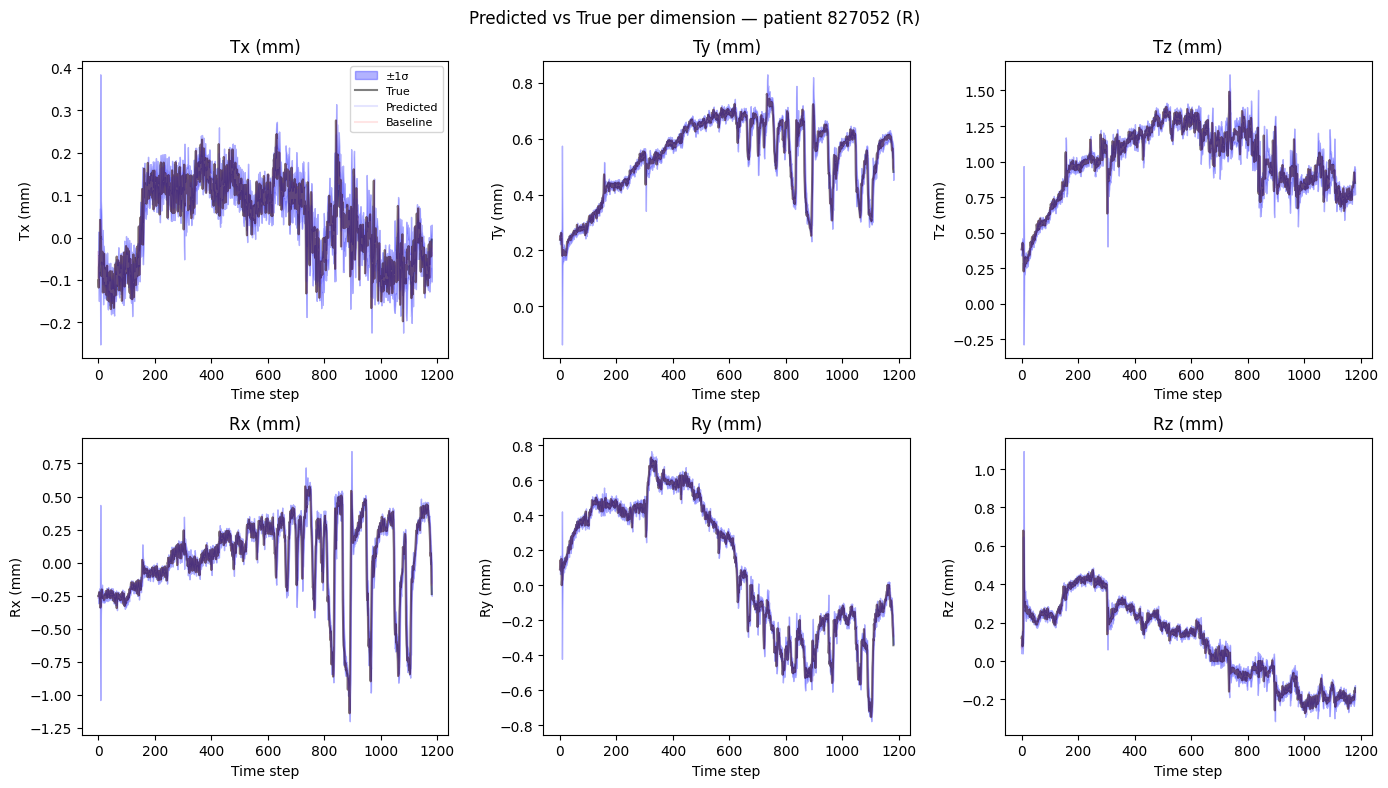
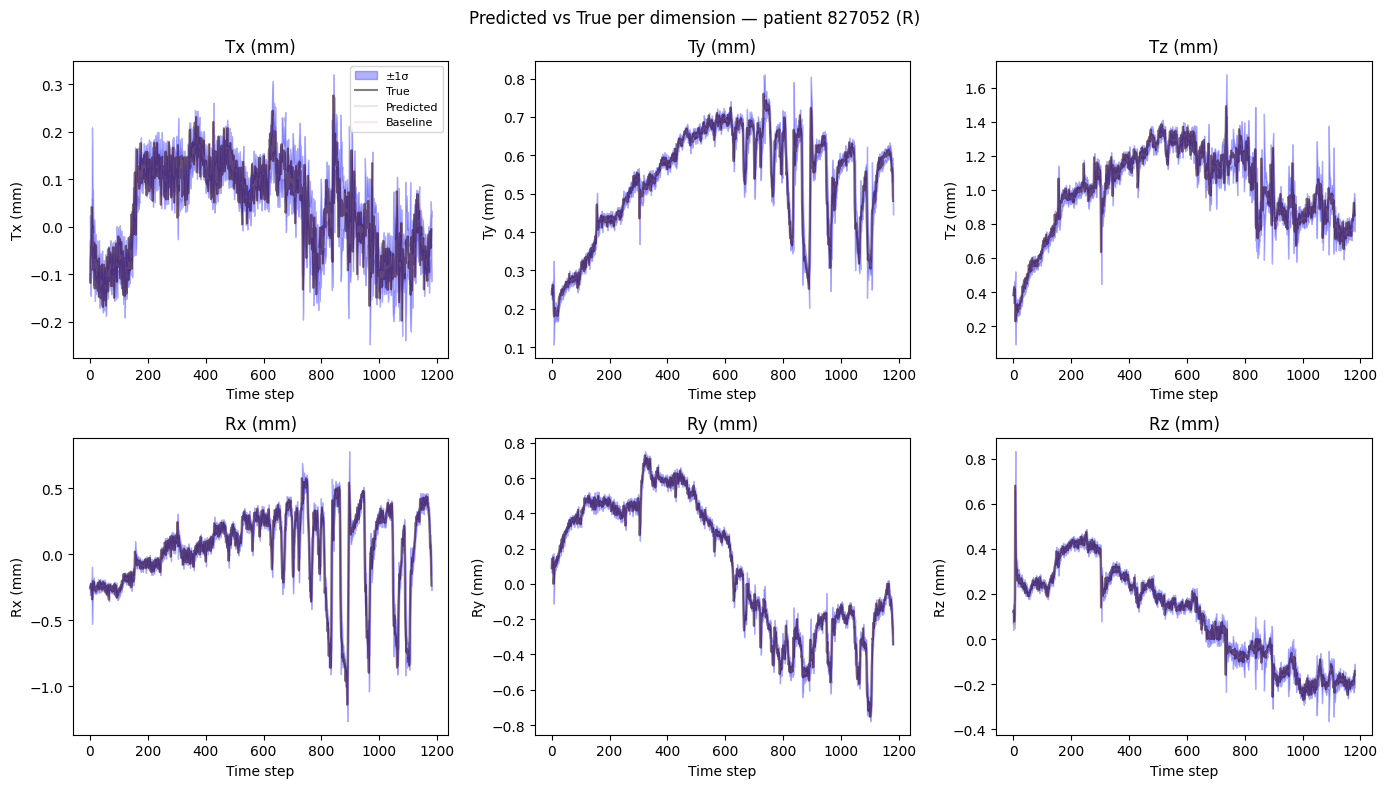
Rewrite README with full multi-architecture results
Cover the benchmark (9 archs x 4 seq lengths), Pareto frontiers,
sequence-length scan, distillation, routing, and ablations
(feature/data augmentation, jerk penalty), plus updated GRU
reproduction, beta scan, and fine-tuning figures. Add the
supporting figures to assets/.

diff --git a/README.md b/README.md
@@ -4,7 +4,9 @@
 
 Predict the **next** head-motion frame from a stream of past frames, one step ahead, so a scanner (or a prospective-motion-correction system) can react *before* the head has finished moving.
 
-The model is a small probabilistic **GRU** trained on the [HCP](https://www.humanconnectome.org/) head-motion time series (6 degrees of freedom: 3 translations + 3 rotations). For every frame it outputs a **Gaussian per dimension** — a mean *and* a variance — so it reports not just where the head will be, but how sure it is. It is trained to beat the obvious "the head won't move" baseline on **framewise displacement (FD)** while keeping its uncertainty **calibrated**.
+Models are trained on the [HCP](https://www.humanconnectome.org/) head-motion time series (6 degrees of freedom: 3 translations + 3 rotations, sampled every 720 ms). For every frame a model outputs a **Gaussian per dimension** — a mean *and* a variance — so it reports not just where the head will be, but how sure it is. The objective is to beat the obvious "the head won't move" baseline on **framewise displacement (FD)** while keeping the uncertainty **calibrated**, at a latency low enough for real-time deployment.
+
+This project starts from the original RECENTRE GRU ([Argiento et al. 2025](https://arxiv.org/abs/2505.09963)), reproduces it inside a clean config-driven pipeline, and then benchmarks **9 architectures × 4 sequence lengths** — TCN, Transformer, PatchTST, NLinear, DLinear, TSMixer, Conformer, Mamba, and the GRU — on accuracy, size, latency, noise robustness, and calibration.
 
 <p align="center">
   <img src="assets/patient_timeseries.png" width="100%"><br>
@@ -15,7 +17,7 @@ The model is a small probabilistic **GRU** trained on the [HCP](https://www.huma
 
 ## The idea in one minute
 
-**The baseline is hard to beat.** Head motion is slow and smooth, so "next frame ≈ current frame" (the *previous-frame baseline*) is already a very good predictor. Any useful model has to do measurably better than simply repeating the last frame.
+**The baseline is hard to beat.** Head motion is slow and smooth, so "next frame ≈ current frame" — the *previous-frame* (lag-1) baseline — is already a very good predictor. Any useful model has to do measurably better than repeating the last frame.
 
 **We measure everything in FD.** Framewise displacement collapses the 6-DOF change between two frames into a single scalar in millimetres — translations summed directly, rotations converted to mm via a 50 mm head radius. The headline metric is **FD-gain**:
 
@@ -23,7 +25,7 @@ The model is a small probabilistic **GRU** trained on the [HCP](https://www.huma
 fd_gain = (FD_baseline − FD_model) / FD_baseline      # >0 means we beat "don't move"
 ```
 
-**The model predicts a residual, not the frame.** The GRU's mean head outputs a *correction* added to the last input frame, which is the right inductive bias when consecutive frames are nearly identical. A second head outputs the variance.
+**Models predict a residual, not the frame.** Every architecture's mean head outputs a *correction* added to the last input frame — the right inductive bias when consecutive frames are nearly identical — plus a second head for the variance. So `forward` returns `(last_frame + Δμ, σ²)`.
 
 **The loss has two terms.** Gaussian negative log-likelihood (which trains both the mean *and* the variance) minus a weight `β` times the FD-gain:
 
@@ -33,48 +35,153 @@ loss = GaussianNLL(μ, σ², target)  −  β · mean(fd_gain)
 
 `β` is the dial between *calibrated uncertainty* (low β) and *aggressive FD reduction* (high β). Early stopping and model selection use validation FD-gain, not the raw loss.
 
+**Inputs are physics-augmented.** Each channel is the raw position plus a stride-2 velocity `x[t]−x[t−2]` and a second-difference acceleration channel, all z-scored with a single per-channel mean/σ computed on the training set only.
+
 ---
 
-## Results
+## Headline result: the architecture benchmark
 
-### It tracks the motion accurately
+We trained 9 architectures at sequence lengths {10, 32, 64, 128} and ranked them by mean FD-gain on held-out patients (R+M+L, disjoint patient splits). The **Conformer wins**, the **Mamba** is second, and the **GRU** is third — but the GRU is by far the cheapest of the leaders to run.
 
-True vs. predicted, per dimension, on held-out patients across all three tasks (Resting / Memory / Language). R² ranges from 0.94 (the hardest translation axis) to ~0.996.
+<p align="center"><img src="assets/benchmark_table.png" width="100%"></p>
 
-<p align="center"><img src="assets/true_vs_predicted.png" width="100%"></p>
+Top of the table (best checkpoint per architecture, sorted by FD-gain):
 
-### It beats the previous-frame baseline — where it matters
+| Architecture | Seq | Params | FLOPs (M) | Latency (ms) | Mean FD | **FD-gain** | %>0 | NLL |
+|--------------|----:|-------:|----------:|-------------:|--------:|------------:|----:|----:|
+| **conformer**   | 128 | 199,436 | 40.4 | 2.88 | 0.1213 | **0.216** | 80.2 | −2.30 |
+| conformer       |  64 | 199,436 | 20.2 | 2.80 | 0.1198 | 0.213 | 80.1 | −2.29 |
+| gru (distilled) | 128 | 174,476 | 39.6 | **0.64** | 0.1236 | 0.205 | 79.3 | −2.29 |
+| **mamba**       | 128 |  95,500 | 22.7 | 6.33 | 0.1245 | 0.202 | 79.3 | −2.27 |
+| mamba           |  64 |  95,500 | 11.4 | 5.05 | 0.1214 | 0.199 | 78.8 | −2.27 |
+| **gru**         | 128 | 174,476 | 39.6 | **0.64** | 0.1265 | 0.196 | 79.4 | −2.24 |
+| transformer     | 128 |  73,228 |  0.30 | 0.96 | 0.1257 | 0.191 | 78.4 | −2.25 |
+| tcn             |  64 |  71,276 | 10.4 | 3.19 | 0.1300 | 0.170 | 78.1 | −2.20 |
+| TSMixer         |  64 |  18,042 |  0.74 | 2.01 | 0.1383 | 0.116 | 73.9 | −2.17 |
+| dlinear         |  32 |   1,782 |  0.00 | 0.92 | 0.1534 | 0.054 | 71.2 | −0.86 |
+| nlinear         |  32 |     396 |  0.00 | 0.45 | 0.1533 | 0.054 | 70.8 | −1.03 |
+| patchTST        | 128 |  23,330 | 19.2 | 1.48 | 0.1553 | 0.040 | 68.4 | −2.06 |
 
-The left panel shows model FD stays *below* the `y = x` baseline line. The right panel is the key story: FD-gain is **negative for tiny motions** (when the head is basically still, you can't beat "don't move" and shouldn't try) and climbs to **~20% gain** once there is real motion to anticipate. This is exactly the regime that matters for motion correction.
+*Full 37-row table (all archs × all seq lengths, plus size, throughput, noise columns) lives in [`results/benchmark/benchmark_table.md`](results/benchmark/benchmark_table.md).*
 
-<p align="center"><img src="assets/fdgain_vs_motion.png" width="100%"></p>
+Two clear lessons:
 
-### Almost every patient improves
+- **Channel mixing matters.** The channel-*independent* models — PatchTST, NLinear, DLinear — sit at the bottom. The 6 DOF are physically coupled, and models that mix across channels (Conformer, Mamba, GRU, TSMixer) exploit that; the ones that treat each channel separately cannot.
+- **Sequence length is the single biggest accuracy lever** — see the scan below.
 
-Per-patient FD-gain, sorted. **92–97%** of held-out patients are improved over baseline, with a handful of near-still patients (red) where the baseline is already optimal.
+### The Pareto frontiers
 
-<p align="center"><img src="assets/per_patient_fdg.png" width="100%"></p>
+Accuracy (FD-gain) against each real-world cost axis — latency, FLOPs, model size — plus FD-gain vs. noise tolerance. The Conformer leads on accuracy, Mamba follows, and the **GRU offers the best accuracy-per-latency trade-off** (its recurrence is ~4–10× faster to evaluate one frame than the attention/SSM models). The noise-tolerance panel is essentially a straight line: there is no specially "noise-robust" architecture, just better models overall that need more injected noise to fall below the clean baseline.
 
-### The uncertainty is calibrated
+<p align="center"><img src="assets/benchmark_pareto.png" width="100%"></p>
 
-Standardized residuals `z = (y − μ) / σ` should be unit Gaussians if σ is honest. Across all 6 DOF and all 3 tasks: mean(z) ≈ 0, std(z) ≈ 1, reduced χ² ≈ 1. The predicted σ means something — it can be used to fall back to the baseline when the model is unsure.
+### Sequence length scan
 
-<p align="center"><img src="assets/sigma_calibration.png" width="100%"></p>
+FD-gain vs. input length for the best three models. Accuracy rises with sequence length, but past **T = 64** it's diminishing returns — and mean FD even slightly *worsens* from T = 64 → 128. For real-time use, T = 64 is the sweet spot.
+
+<p align="center"><img src="assets/fdg_vs_seqlen.png" width="70%"></p>
+
+---
+
+## Distillation: pushing the fast model up
+
+The Conformer is the most accurate but ~4× slower per frame than the GRU. So we **distilled the Conformer into the GRU** — matching both the output distribution (KL between the two predicted Gaussians) and the pre-head latent features (MSE after a learned projection). The distilled GRU (`gru_distilled` in the table above) reaches **FD-gain 0.205 vs. the vanilla GRU's 0.196**, closing most of the gap to Mamba/Conformer *while keeping the GRU's 0.64 ms latency* — the best speed/accuracy point in the study.
+
+<p align="center"><img src="assets/benchmark_pareto_dist.png" width="100%"></p>
+
+---
+
+## Routing over experts (learned ensemble)
+
+Inspired by mixture-of-experts, we froze the best Conformer, Mamba, and GRU (seq 128) plus the previous-frame baseline, and trained a small **router MLP** that reads each expert's per-frame residual and σ and emits softmax blend weights, trained end-to-end to minimize FD directly. This is *stacking*, not a true MoE — the experts are pretrained and frozen. The router trains on validation patients and is evaluated on the held-out test patients (unseen by every expert).
+
+| Policy | FD-gain |
+|--------|--------:|
+| Conformer (single) | 0.2159 |
+| Mamba (single)     | 0.2020 |
+| GRU (single)       | 0.1957 |
+| Fixed mean (⅓ each)   | 0.2196 |
+| **Soft router**    | **0.2238** |
+| Fixed router-mean weights | 0.2221 |
+
+The learned per-frame router does win, but only marginally over a good fixed average. Average router weights: **61% Conformer, 16% Mamba, 15% GRU, 8% baseline** — every expert is blended in, and better models get more weight. Takeaway: most per-frame headroom is irreducible noise, so a single strong model or a fixed average remains the practical choice.
+
+---
+
+## Reproducing the GRU baseline
+
+Before benchmarking, we reproduced the original RECENTRE GRU inside the new pipeline — a single generalist model trained and tested on all three tasks (R+M+L) over disjoint patient splits.
+
+**It tracks the motion accurately.** True vs. predicted, per dimension, on held-out patients. Every DOF reaches R² > 0.94.
+
+<p align="center"><img src="assets/gru_true_vs_predicted.png" width="90%"></p>
+
+**It beats the previous-frame baseline where it matters.** Model FD sits below the lag-1 baseline, and **74.8%** of frames are improved. FD-gain is negative for tiny motions (when the head is basically still you can't beat "don't move," and shouldn't try) and climbs once there is real motion to anticipate — exactly the regime that matters for motion correction.
+
+<p align="center"><img src="assets/gru_fd_distribution.png" width="90%"></p>
+
+**Almost every patient improves.** Per-patient FD-gain, sorted within each task: **>92%** of patients improved in every task, with a handful of near-still patients where the baseline is already optimal.
+
+<p align="center"><img src="assets/gru_per_patient_fdg.png" width="100%"></p>
 
 ### The β trade-off, swept
 
-Sweeping `β` from 0 → 100: NLL and calibration are best at low β, FD-gain peaks around **β ≈ 0.5–1**, and pushing β higher trades calibration away for diminishing FD returns. `β = 0.5` is the default sweet spot.
+The original work fixed β = 0.1 arbitrarily. Sweeping β over orders of magnitude: NLL and calibration are best at low β, FD-gain peaks around **β ≈ 0.5–1**, and pushing β higher trades calibration away for diminishing (and eventually negative) FD returns — an overfitting effect specific to the FD-gain term. **β = 0.5** is the default sweet spot.
 
-<p align="center"><img src="assets/beta_headline.png" width="100%"></p>
+<p align="center">
+  <img src="assets/beta_headline_metrics.png" width="100%"><br>
+  <em>Headline metrics vs. β: NLL, mean FD vs. baseline, FD-gain, and MAE vs. predicted σ.</em>
+</p>
+<p align="center">
+  <img src="assets/beta_calibration.png" width="100%"><br>
+  <em>Calibration vs. β: empirical coverage of the ±1σ / ±2σ intervals against their Gaussian targets — degrades as β grows.</em>
+</p>
 
 ### Per-patient fine-tuning helps further
 
-Starting from the generalist model and fine-tuning a few epochs on each patient's own early frames (with an L2-SP penalty anchoring to the pretrained weights) improves FD-gain for **~80%** of patients.
+Starting from the generalist model and fine-tuning a few epochs on each patient's own early frames (MSE + FD-gain loss, with an L2-SP penalty anchoring to the pretrained weights) lifts the improved-patient rate to **>95%** in every task, with an **80%** per-patient win rate and a mean FD-gain shift of **+0.047**.
 
+<p align="center"><img src="assets/ft_per_patient_fdg.png" width="100%"></p>
 <p align="center">
-  <img src="assets/finetune_fdg_scatter.png" width="48%">
-  <img src="assets/finetune_delta_kde.png" width="48%">
+  <img src="assets/ft_fdg_scatter.png" width="48%">
+  <img src="assets/ft_delta_kde.png" width="48%"><br>
+  <em>Left: per-patient FD-gain before vs. after fine-tuning (points above y=x improved). Right: distribution of the per-patient FD-gain improvement (mean shift +0.047).</em>
 </p>
+
+---
+
+## Ablations
+
+### Feature augmentation — velocity is the win
+
+Appending stride-2 velocity (`x[t]−x[t−2]`, recomputed because the model sees every 2nd frame) and acceleration channels. Velocity gives a large jump; acceleration adds nothing measurable, but we keep both for all models.
+
+| Augmentation | FD_pred | FD-gain | % frames > base |
+|--------------|--------:|--------:|----------------:|
+| None    | 0.134 | 0.145 | 76.5 |
+| Vel     | 0.129 | 0.172 | 78.5 |
+| Vel+acc | 0.129 | 0.171 | 78.1 |
+
+### Data augmentation — negation helps, time-reversal hurts
+
+Translations and rotations are physically coupled, so there's little room for independent transforms. Of the two physically plausible ones, **negation (sign flip)** improves the clean test set while **time-reversal degrades it**. All models are trained with negation augmentation.
+
+| Augmentation | FD_pred | FD-gain | % frames > base |
+|--------------|--------:|--------:|----------------:|
+| None          | 0.143 | 0.097 | 73.0 |
+| Time-reversal | 0.146 | 0.078 | 70.9 |
+| **Negation**  | 0.141 | **0.114** | 75.2 |
+| Both          | 0.145 | 0.085 | 71.9 |
+
+### Jerk penalty — no measurable edge
+
+A kinematic prior: penalize jerk `J(t) = x[t] − 3x[t−2] + 3x[t−4] − x[t−6]` with weight γ. Swept over orders of magnitude, the best γ buys only ~0.002 (~1%) FD-gain over γ = 0 — within noise. Not enough to conclude a real effect without repeated-run error bars.
+
+| γ | Mean FD | FD-gain | % frames > base |
+|---|--------:|--------:|----------------:|
+| 0    | 0.1268 | 0.1778 | 78.4 |
+| 0.3  | 0.1273 | 0.1798 | 78.8 |
+| 1    | 0.1363 | 0.1514 | 77.3 |
 
 ---
 
@@ -88,36 +195,41 @@ Needs `pyyaml` on top of `torch` / `numpy` / `matplotlib` / `scipy` / `tqdm`. No
 python preprocessing.py
 
 # 1. Train one model — everything is specified by the config you pass
-python train.py configs/gru_generalist.yaml
+python train.py configs/gru_generalist.yaml       # or conformer_/mamba_/tcn_/... generalist.yaml
 
-# 2. Evaluate a checkpoint -> writes the 8 figures to results/
+# 2. Evaluate a checkpoint -> writes the figures to results/
 #    (the model is rebuilt from the config embedded in the checkpoint)
-python evaluate.py checkpoints/generalist/GRU_R+M+LvR+M+L_beta0.5_ep150.pth
+python evaluate.py checkpoints/generalist/gru_R+M+LvR+M+L_beta0.5_ep150.pth
 
-# 3. Sweep beta: edit `beta` in the config, re-run train.py a few times,
-#    then compare the resulting checkpoints grouped by beta
+# 3. Compare a folder of checkpoints, grouped by a config field (default train.beta)
 python compare.py checkpoints/beta_scan
 
 # 4. Per-patient fine-tuning sweep -> CSV, then plot it
 python finetune.py configs/finetune.yaml
 python finetune_plots.py
+
+# 5. Per-frame router (stacking) over the frozen best experts + baseline
+python routing.py
+
+# 6. Distill the conformer into the GRU
+python distill.py configs/distill_gru.yaml
 ```
 
-**Everything lives in the config.** Model type, hyperparameters, tasks, loss, `β`, epochs, the input window length, and the fine-tuning knobs are all set in `configs/*.yaml` — nothing is hardcoded in the eval scripts. Each checkpoint embeds its full config, so `evaluate.py` / `compare.py` / `finetune.py` rebuild the exact model with no hyperparameters repeated anywhere.
+**Everything lives in the config.** Model type, hyperparameters, tasks, loss, `β`, epochs, input window length, augmentation, and fine-tuning knobs are all set in `configs/*.yaml` — nothing is hardcoded in the eval scripts. Each checkpoint embeds its full config, so `evaluate.py` / `compare.py` / `finetune.py` rebuild the exact model with no hyperparameters repeated anywhere.
 
 A minimal config:
 
 ```yaml
 model:
   type: gru          # key in MODELS (models.py); add architectures there
-  input_dim: 6
+  input_dim: 18      # 6 positions + 6 velocity + 6 acceleration channels
   hidden_dim: 128
   num_layers: 2
   dropout: 0.5
 data:
   train_task: R+M+L  # Resting + Memory + Language
   test_task: R+M+L
-  sequence_length: 10   # input window = 10 frames at stride 2 (spans 20 frames)
+  sequence_length: 64   # input window (frames), stride 2
   split_percentages: [0.7, 0.15, 0.15]
   cross_patients: false
 train:
@@ -135,23 +247,39 @@ A deliberately flat, simple codebase — no packages, no abstraction layers.
 | File | Role |
 |------|------|
 | `preprocessing.py` | Raw HCP `txt` → per-task `{patient_id: ndarray[T, 6]}` dicts. Drops derivative columns, converts rotations deg→rad, keeps patients present in all three tasks. |
-| `dataset.py` | `TimeSeriesDataset`, the GPU-resident `GPUBatchLoader`, and `split_data` (leakage-safe train/val/test patient splits). |
+| `dataset.py` | `TimeSeriesDataset`, the GPU-resident `GPUBatchLoader`, `build_features` (velocity/accel + z-score), and `split_data` (leakage-safe train/val/test patient splits). |
 | `models.py` | Model classes + the `MODELS` registry + `build_model(config)`. Add an architecture = one class + one line. |
 | `metrics.py` | `fd`, `fd_gain`, and `evaluate()` — the single evaluation path used by every script. |
 | `engine.py` | `fit()` — the one training loop, shared by pretraining and fine-tuning. |
-| `train.py` / `finetune.py` | Drivers; each reads a YAML config. |
-| `plots.py` / `finetune_plots.py` / `evaluate.py` / `compare.py` | Figure generation and checkpoint comparison. |
+| `train.py` / `finetune.py` / `resume.py` | Drivers; each reads a YAML config. |
+| `sweep.py` / `compare.py` / `robustness.py` | Shared eval engine + checkpoint comparison + added-noise robustness. |
+| `routing.py` | Per-frame router (stacking) over frozen experts + baseline. |
+| `distill.py` | Conformer → GRU knowledge distillation (output KL + latent MSE). |
+| `plots.py` / `finetune_plots.py` / `evaluate.py` | Figure generation. |
 | `configs/*.yaml` | The surface you edit. |
 
-### Model
+### Architectures
 
-`GRU (2-layer) → LayerNorm → ReLU → FC → LayerNorm → ReLU → Dropout → two heads (mean, log-variance)`.
-The mean head predicts a **residual** added to the last input frame; the variance is returned already exponentiated. So `forward` returns `(last_frame + Δμ, σ²)`.
+`models.py` holds a registry of 9 forecasters, all sharing the same output contract — two heads (mean, log-variance) reading the model's latent space, and a residual prediction added to the last frame:
+
+- **GRU** — the original RECENTRE recurrent baseline; cheapest per-frame latency.
+- **Conformer** — attention + convolution sandwich; the most accurate model here.
+- **Mamba** — selective state-space model, content-dependent update; second best.
+- **Transformer** — encoder-only self-attention with sinusoidal positions.
+- **TCN** — dilated causal temporal convolutions.
+- **PatchTST / NLinear / DLinear** — channel-independent forecasters; weak here (channels are coupled).
+- **TSMixer** — alternating time-mixing / channel-mixing MLPs.
+
+<p align="center">
+  <img src="assets/tcn_diagram.png" width="47%">
+  <img src="assets/TSMixer.png" width="47%"><br>
+  <em>Schematic forward passes: TCN (left) and TSMixer (right).</em>
+</p>
 
 ### Data
 
-HCP, three tasks with fixed lengths per task — Resting (T=1200), Memory (T=405), Language (T=316). Dimension order is fixed throughout: `[Tx, Ty, Tz, Rx, Ry, Rz]`, with rotation indices `3:6` getting the ×50 mm scaling for FD. Normalization stats (`μ`, `σ`) are computed on training frames only and travel inside each checkpoint.
+HCP, three tasks with fixed lengths per task — Resting (T=1200), Memory (T=405), Language (T=316), 1027 patients present in all three. Dimension order is fixed throughout: `[Tx, Ty, Tz, Rx, Ry, Rz]`, with rotation indices `3:6` getting the ×50 mm scaling for FD. Normalization stats (`μ`, `σ`) are computed on training frames only and travel inside each checkpoint.
 
 ---
 
-*A student research project benchmarking a GRU baseline for real-time MRI motion prediction. The architecture registry and config-driven pipeline are built so that TCN / Transformer / hybrid models can be dropped in and compared on identical footing.*
+*A student research project (Advanced Machine Learning for Physics) benchmarking modern sequence architectures for real-time MRI motion prediction, building on the original RECENTRE GRU. The architecture registry and config-driven pipeline are built so new models drop in and compete on identical footing.*